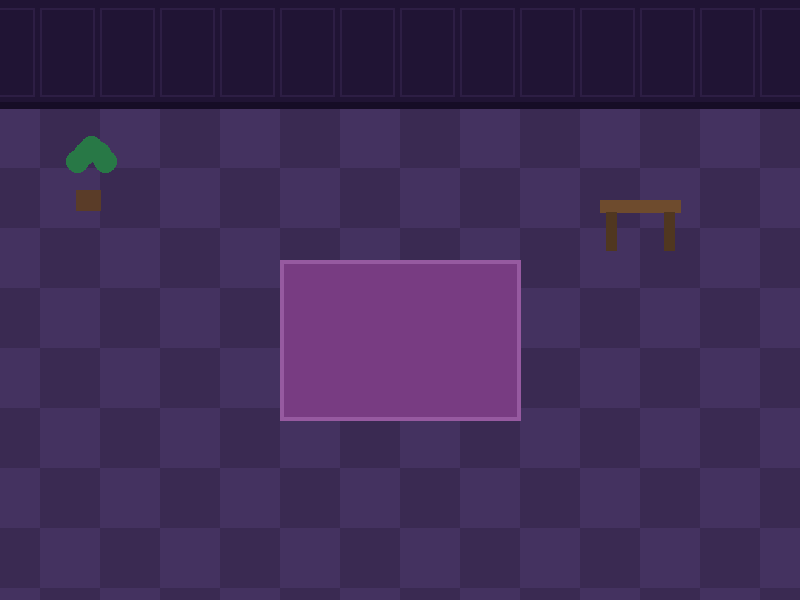
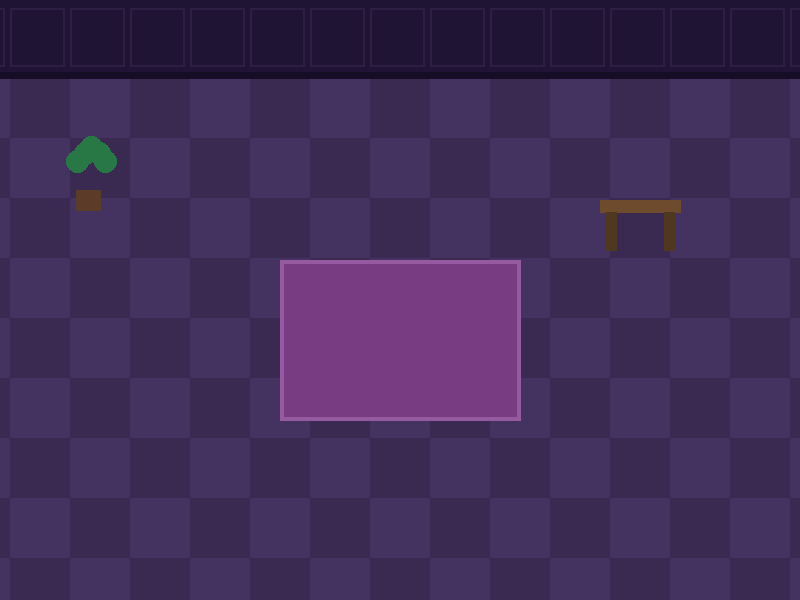
Centraliza o quadriculado do piso no tile e ajusta poltrona de lado
- Piso: quadriculado agora começa meio tile antes da origem da grade,
  então cada posição (col,row) cai no CENTRO de um quadrado do piso
  em vez de num cruzamento de 4 quadrados -- alinhamento "obvio" ao
  tile de 60px de verdade.
- Poltrona de lado: aumenta seatOffsetX (6 -> 12) pra jogar o boneco
  um pouco mais pra frente dentro do assento.

Claude-Session: https://claude.ai/code/session_018xm3GX2bQC8Nuwuw2rsoPK

Changed region(s): [[0.0, 0.12, 1.0, 0.18]]

diff --git a/game/furniture.ts b/game/furniture.ts
@@ -71,7 +71,7 @@ export function furnitureArtFile(type: FurnitureType, facing: Direction): string
 // olha, pra não ficar sentado bem no meio do "pé" do móvel.
 const SEAT_Y_FRENTE_COSTAS = -4;
 const SEAT_Y_LADO = -18;
-const SEAT_X_LADO = 6;
+const SEAT_X_LADO = 12;
 
 export const ROOM_FURNITURE: FurnitureDef[] = [
   {
